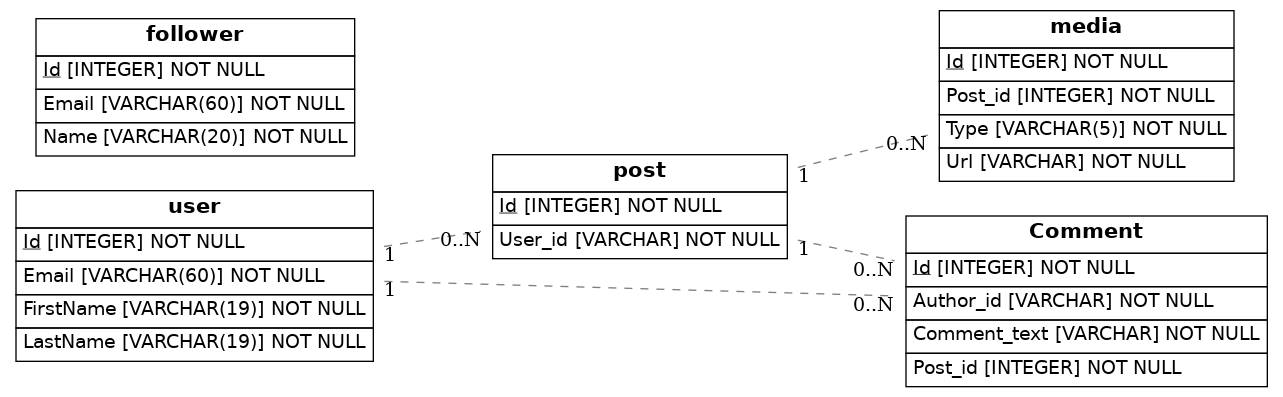
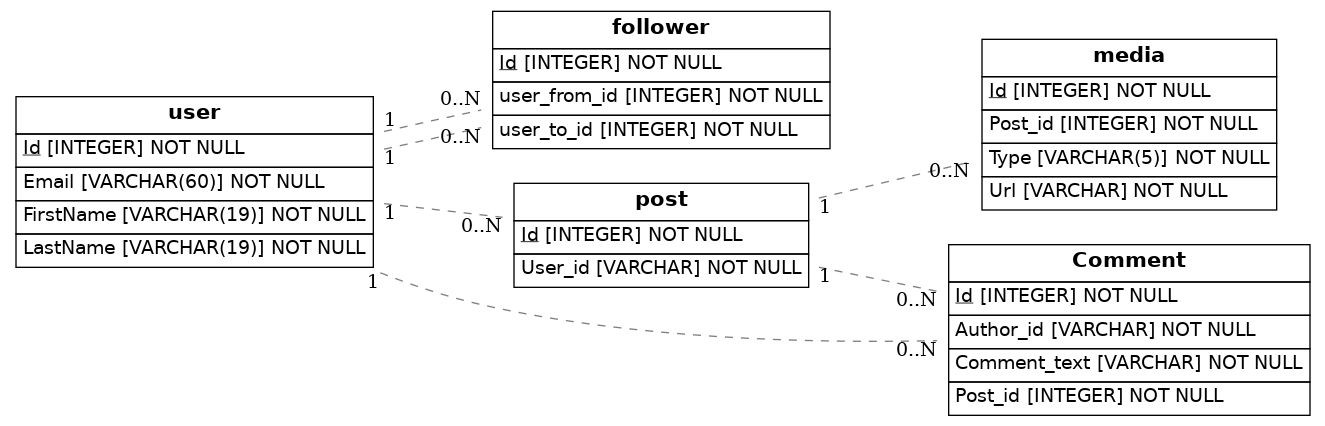
second commit

diff --git a/src/models.py b/src/models.py
@@ -12,15 +12,15 @@ class User(Base):
     __tablename__ = 'user'
 
     Id = Column(Integer, nullable = False, primary_key= True)
-    FirstName = Column(String(19), nullable = False)
-    LastName = Column(String(19), nullable = False)
+    First_name = Column(String(19), nullable = False)
+    Last_name = Column(String(19), nullable = False)
     Email = Column(String(60), nullable = False)
 
     def serialize(self):
         return {
             'Id': self.Id,
-            'FirstName': self.FirstName,
-            'LastName': self.LastName,
+            'First_name': self.FirstName,
+            'Last_name': self.LastName,
             'Email': self.Email
         }
         
@@ -29,14 +29,14 @@ class Follower(Base):
     __tablename__ = 'follower'
 
     Id = Column(Integer, nullable= False, primary_key = True)
-    Name = Column(String(20), nullable = False)
-    Email = Column(String(60), nullable = False)
+    user_from_id = Column(Integer, ForeignKey('user.Id'), nullable=False)
+    user_to_id = Column(Integer, ForeignKey('user.Id'), nullable=False)
 
     def serialize(self):
         return   {
             'Id': self.Id,
-            'Name': self.Name,
-            'Email': self.Email
+            'User_from_id': self.user_from_id,
+            'User_to_id': self.user_to_id
         }
 
       
@@ -85,10 +85,10 @@ class Comment(Base):
 
     def serialize(self):
         return {
-            Id : self.Id,
-            Comment_text: self.Comment_text,
-            Author_id: self.Author_id,
-            Post_id: self.Post_id
+            'Id' : self.Id,
+            'Comment_text': self.Comment_text,
+            'Author_id': self.Author_id,
+            'Post_id': self.Post_id
         }
 
 
